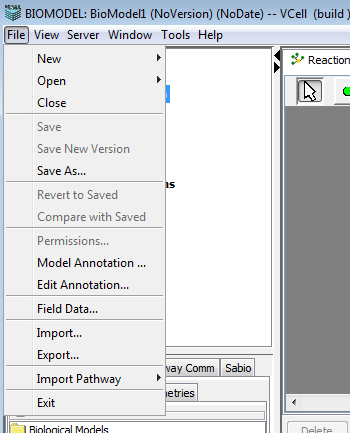
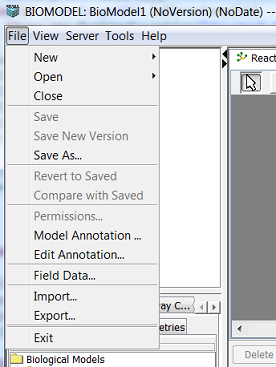
Bug 4245: Remove Import Pathway from File Menu and Help System
svn path=/vcell/branches/VCell_5.3/VCell/; revision=17662

diff --git a/src/cbit/vcell/client/desktop/DocumentWindow.java b/src/cbit/vcell/client/desktop/DocumentWindow.java
@@ -1151,7 +1151,7 @@ private javax.swing.JMenu getFileMenu() {
 			ivjFileMenu.add(getJMenuItemImport());
 			ivjFileMenu.add(getJMenuItemExport());
 			ivjFileMenu.add(new JSeparator());
-			ivjFileMenu.add(getJMenuImportPathway());			
+			//ivjFileMenu.add(getJMenuImportPathway());			
 			ivjFileMenu.add(new JSeparator());
 			ivjFileMenu.add(getExitMenuItem());
 			// user code begin {1}
@@ -2629,7 +2629,7 @@ public void updateConnectionStatus(ConnectionStatus connStatus) {
 					getWindowManager().getVCDocument() != null &&
 					getWindowManager().getVCDocument() instanceof BioModel
 			);
-			getJMenuImportPathway().setEnabled(getWindowManager().getVCDocument() instanceof BioModel);
+			//getJMenuImportPathway().setEnabled(getWindowManager().getVCDocument() instanceof BioModel);
 			getPermissionsMenuItem().setEnabled(bVersionedDocument && getWindowManager().getVCDocument().getVersion().getOwner().equals(getWindowManager().getUser()));
 			break;
 		}
